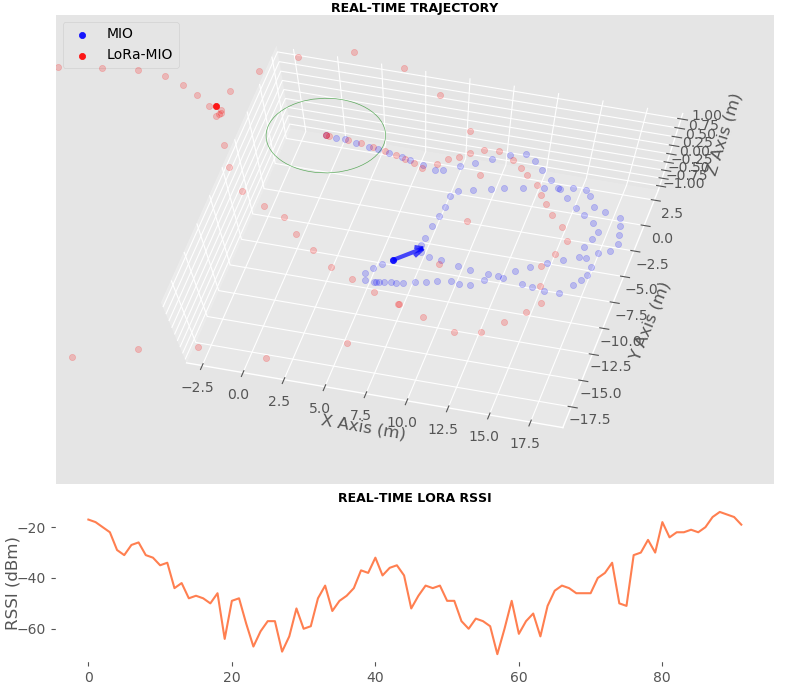
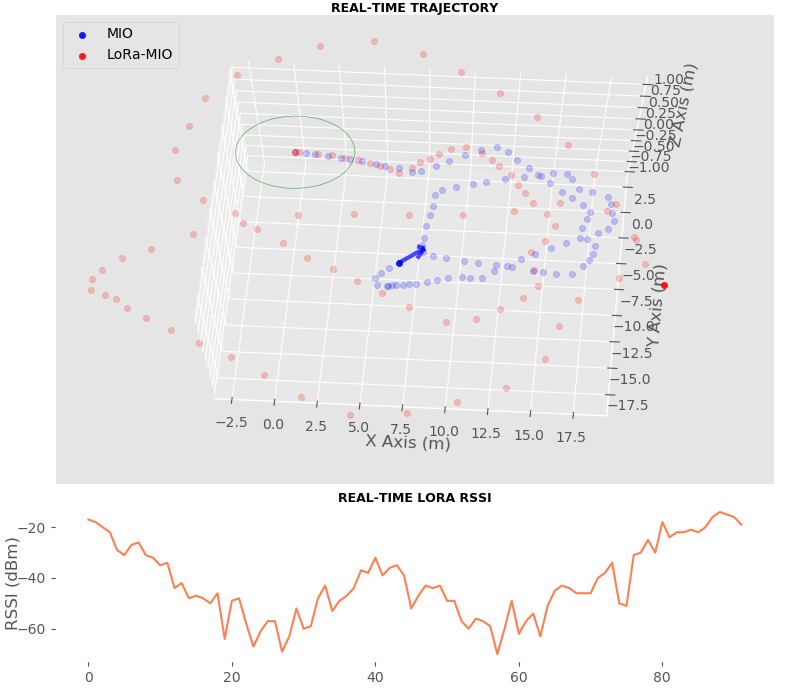
Tested Constrained EKF: NO luck

diff --git a/replay.py b/replay.py
@@ -146,11 +146,12 @@ class EKF_Fusion_MultiRX_AngularV(EKF_Fusion):
             #print("Measurement ROT_Z:", z[2, 0])
 
             # Refresh Measurement noise R
-            # Tip1: (x, y) should be noisy; Tip2: large noise for RSSI
+            # Tip1: (x, y) should be noisy; Tip2: large noise for RSSI; Tip3: small noise for rot_z
             self.my_kf.R[0, 0] = 4.0  # self.sigma_list[-g][0]*1000
             self.my_kf.R[1, 1] = 4.0  # self.sigma_list[-g][1]*1000
-            self.my_kf.R[2, 2] = 0.001 # self.sigma_list[-g][-1]**2 # Sigma of ROT_Z
+            self.my_kf.R[2, 2] = 0.0005 # self.sigma_list[-g][-1]**2 # Sigma of ROT_Z
             self.my_kf.R[3, 3] = 10*SIGMA**2
+
             # Refresh State Transition Martrix: F
             self.my_kf.F = eye(5) + array([[0, 0, -self.dt * self.my_kf.x[3, 0] * math.sin(self.my_kf.x[2, 0]),
                                             self.dt * math.cos(self.my_kf.x[2, 0]), 0],
@@ -166,11 +167,46 @@ class EKF_Fusion_MultiRX_AngularV(EKF_Fusion):
 
             # UPDATE
             self.my_kf.update(z, HJacobian_at_AngularV, hx_AngularV, args=(self.anchor), hx_args=(self.anchor))
-
+            '''
+            # IMPOSE CONSTRAINTS
+            self.my_kf.x, self.my_kf.P = self.constraints()
+            # print("Constraint State = ", self.my_kf.x)
+            # print("Constraint Error Cov = ", self.my_kf.P)
+            '''
             # Log Posterior State x
             self.xs.append(self.my_kf.x)
             # print("X+:\n", self.my_kf.x)
             # print("EKF per round takes %.6f s" % (time.time() - start_t))
+
+    def constraints(self):
+        A = np.diag(np.array([0, 0, 0, 1., 1.]))
+        A_1 = np.linalg.pinv(A)
+        b = np.array([0, 0, 0, 3., 1*math.pi/2]).reshape((-1, 1))
+        x_k = self.my_kf.x
+        Pk = self.my_kf.P
+        # Constrained State
+        AWA = np.dot(A, Pk).dot(A.transpose())
+        AWA_1 = np.linalg.pinv(AWA)
+        x_pk = x_k - np.dot(Pk, A.transpose()).dot(AWA_1).dot(np.dot(A, x_k) - b)
+        '''
+        Y = np.dot(Pk, np.eye(5)).dot(A_1)
+        x_pk = x_k - np.dot(Y, np.dot(A, x_k) - b)
+        '''
+        s = x_pk - x_k
+        step = 0.01
+        for lamda in range(1, 101):
+            x_pk0 = x_k + step*lamda*s
+            if x_pk0[3, 0] <= b[3, 0] and x_pk0[4, 0] <= b[4, 0]:
+                continue
+            else:
+                x_pk0 = x_k + step*(lamda-1)*s
+                print(lamda)
+                break
+
+        x_pk = x_pk0
+        Pk_p = np.dot(x_pk, x_pk.reshape((1, -1)))
+        return x_pk, Pk_p
+
 
     def rt_show(self):
         super(EKF_Fusion_MultiRX_AngularV, self).rt_show(t_limit=100.)

diff --git a/EKF.py b/EKF.py
@@ -402,7 +402,8 @@ class EKF_Fusion():
             #print("X+:\n", self.my_kf.x)
 
             #print("EKF per round takes %.6f s" % (time.time() - start_t))
-        
+
+
         
     def sim_run(self, anchor=1):
         start_t = time.time()
